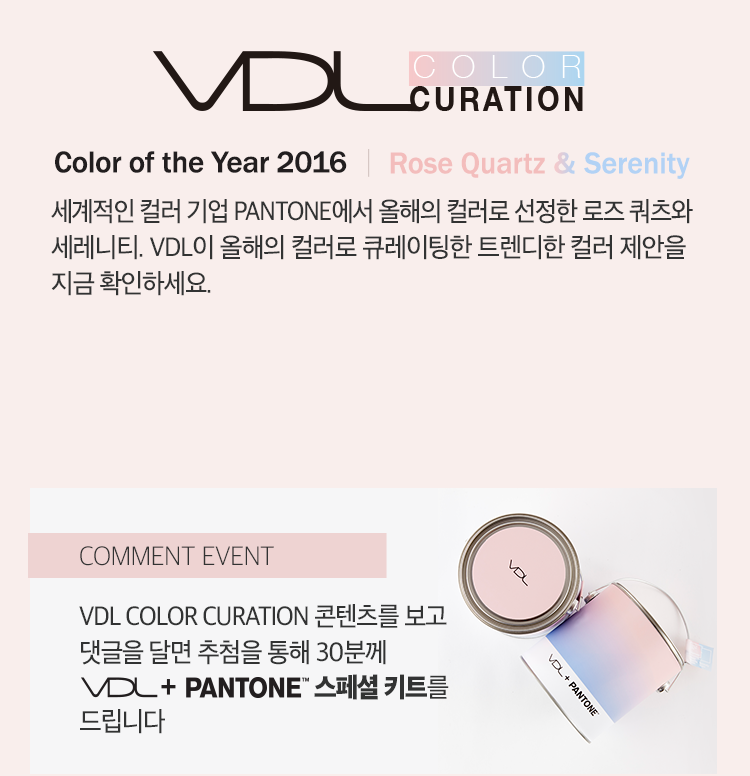
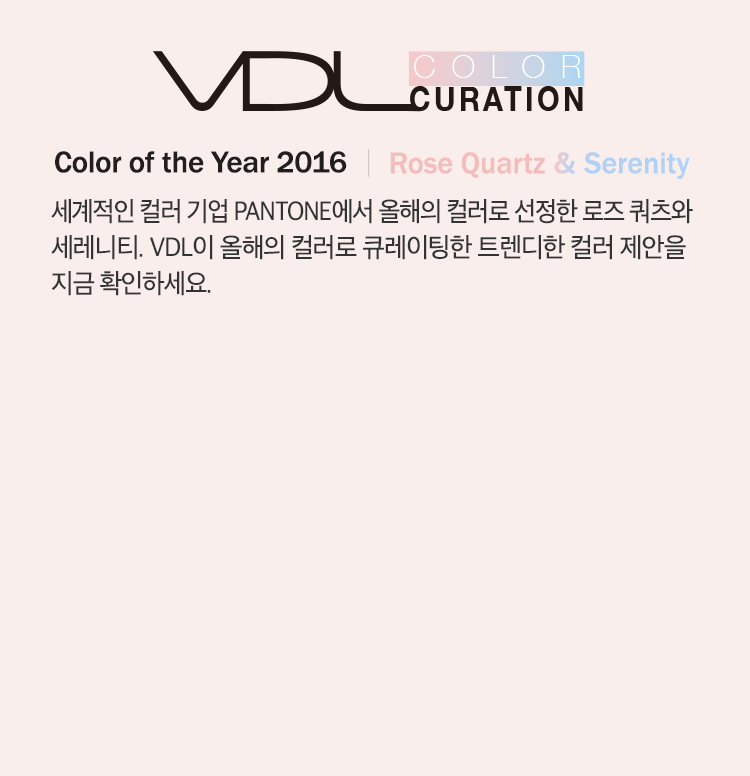
코딩본 수정

Changed region(s): [[0.092, 0.6495, 0.9507, 0.9588], [0.0307, 0.6804, 0.5213, 0.7423]]

diff --git a/MOBILE/m_index.html b/MOBILE/m_index.html
@@ -26,6 +26,9 @@ initial-scale=1.0, maximum-scale=3.0"/>
     	<div class="block_btn">
         	<a href="#"><img src="images/btn_go_cu.png" class="img" alt=""/></a>
         </div>
+        <div class="block_btn event">
+        	<a href="#"><img src="images/btn_event.jpg" class="img" alt=""/></a>
+        </div>
         <div class="block_img">
             <img src="images/img_event.png" class="img" alt=""/>
         </div>

diff --git a/MOBILE/css/style.css b/MOBILE/css/style.css
@@ -51,7 +51,12 @@ body{
 	margin:0 4.5%;
 	text-align:center;
 }
-
+.sec_event .block_btn.event{
+	top:63%;
+	width:91%;
+	margin:0 4.5%;
+	text-align:center;
+}
 
 .sec_col{
 	position: relative;
